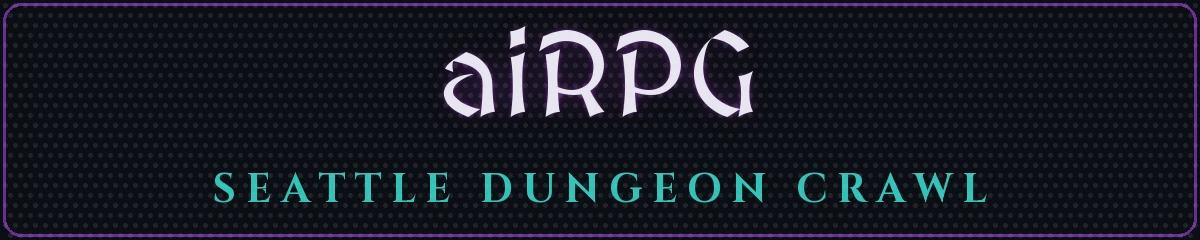
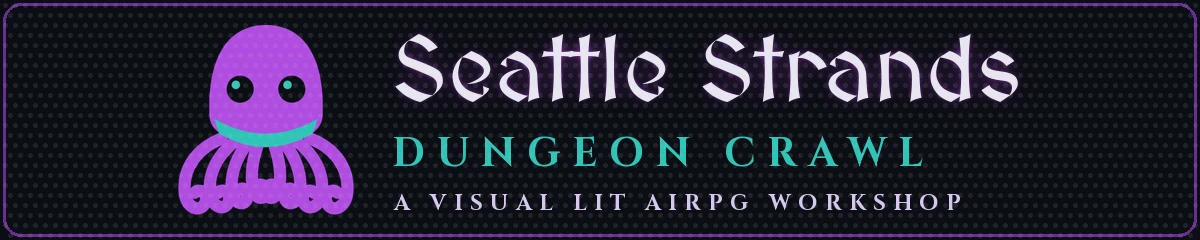
wordmark barnaby v2: mark svg, compose script, rendered webp

Changed region(s): [[0.1233, 0.0875, 0.8325, 0.9042], [0.3083, 0.1167, 0.8633, 0.4958]]

diff --git a/art/compose_readme_art.py b/art/compose_readme_art.py
@@ -18,7 +18,7 @@ bar) and images/hud-strip-1200x120-still.webp (the reduced-motion still), each w
 sidecar. Re-running is deterministic: same fonts, same bytes up to webp encoding.
 """
 from __future__ import annotations
-import hashlib, json, math, os, sys
+import hashlib, json, math, os, shutil, subprocess, sys
 from pathlib import Path
 
 sys.path.insert(0, str(Path(__file__).resolve().parent))
@@ -63,6 +63,77 @@ def ben_day(im: Image.Image) -> Image.Image:
         for xx in range(5 + (yy // 10 % 2) * 5, im.width, 10):
             d.ellipse((xx - 2, yy - 2, xx + 2, yy + 2), fill=LAVENDER + (26,))
     return Image.alpha_composite(im.convert("RGBA"), dot)
+
+
+MARK_SVG = ART / "images" / "src" / "wordmark-barnaby-mark.svg"
+
+
+def find_chromium() -> str:
+    for cand in ("chromium-browser", "chromium", "google-chrome"):
+        if shutil.which(cand):
+            return cand
+    sys.exit("no chromium binary on PATH; need one for --screenshot SVG rasterization")
+
+
+def rasterize_svg(svg: Path, out_png: Path, window: int = 600) -> Path:
+    """Rasterize an SVG via headless chromium --screenshot (Pillow cannot parse SVG).
+
+    Transparent page background so the mark composites cleanly onto the obsidian
+    panel. Returns the PNG path. Deterministic for a fixed SVG and window size.
+    """
+    out_png.parent.mkdir(parents=True, exist_ok=True)
+    # NOTE: snap-confined chromium cannot write outside $HOME (e.g. /tmp), so run
+    # with cwd at the target dir and a bare filename, then verify the bytes landed.
+    subprocess.run([find_chromium(), "--headless", "--disable-gpu", "--no-sandbox",
+                    "--default-background-color=00000000",
+                    f"--screenshot={out_png.name}", f"--window-size={window},{window}",
+                    f"file://{svg.resolve()}"],
+                   check=True, capture_output=True, cwd=out_png.parent)
+    if not out_png.exists():
+        sys.exit(f"chromium screenshot failed to write {out_png}")
+    return out_png
+
+
+def wordmark_v2(mark: Image.Image) -> Image.Image:
+    """New lockup: Barnaby SVG mark (rasterized) + three text lines on the house panel.
+
+    Mark left, text left-aligned to its right: "Seattle Strands" in MedievalSharp
+    ink with violet glow, "DUNGEON CRAWL" tracked-out in Cinzel Bold teal beneath,
+    then the subtitle line small in Cinzel lavender. Same obsidian panel, violet-dim
+    border, and ben-day dots as the original wordmark.
+    """
+    W, H = 1200, 240
+    im = Image.new("RGBA", (W, H), OBSIDIAN + (255,))
+    mark = mark.crop(mark.getbbox())
+    mark.thumbnail((190, 190), Image.LANCZOS)
+    # measure the text first so the whole lockup (mark + left-aligned lines) can
+    # be centered in the panel as one unit
+    probe = ImageDraw.Draw(im)
+    line1_f = font("MedievalSharp.ttf", 92)
+    line1 = "Seattle Strands"
+    line2_f = font("Cinzel-Bold.ttf", 40)
+    line2 = "DUNGEON CRAWL"
+    line3_f = font("Cinzel-Bold.ttf", 22)
+    line3 = "A VISUAL LIT AIRPG WORKSHOP"
+    text_w = max(int(probe.textlength(line1, font=line1_f)),
+                 spaced_width(probe, line2, line2_f, 12),
+                 spaced_width(probe, line3, line3_f, 8))
+    tx = (W - mark.width - 36 - text_w) // 2 + mark.width + 36
+    mark_x = tx - mark.width - 36
+    layer = Image.new("RGBA", (W, H), (0, 0, 0, 0))
+    layer.alpha_composite(mark.convert("RGBA"), (mark_x, (H - mark.height) // 2))
+    im = Image.alpha_composite(im, layer)
+    glow = Image.new("RGBA", (W, H), (0, 0, 0, 0))
+    gd = ImageDraw.Draw(glow)
+    gd.text((tx, 22), line1, font=line1_f, fill=VIOLET + (255,))
+    im = Image.alpha_composite(im, glow.filter(ImageFilter.GaussianBlur(12)))
+    im = Image.alpha_composite(im, glow.filter(ImageFilter.GaussianBlur(4)))
+    d = ImageDraw.Draw(im)
+    d.text((tx, 22), line1, font=line1_f, fill=INK + (255,))
+    spaced(d, (tx + 2, 126), line2, line2_f, TEAL + (255,), 12)
+    spaced(d, (tx + 4, 188), line3, line3_f, LAVENDER + (255,), 8)
+    d.rounded_rectangle((3, 3, W - 4, H - 4), radius=18, outline=VIOLET_DIM + (255,), width=3)
+    return ben_day(im).convert("RGB")
 
 
 def wordmark() -> Image.Image:
@@ -130,9 +201,19 @@ def save(im: Image.Image, out: Path, transforms: list[str], **save_kw) -> None:
 
 
 def main() -> int:
-    save(wordmark(), ART / "images" / "wordmark-1200x240.webp",
-         ["pillow type composition: MedievalSharp title with violet glow, Cinzel tracked subtitle in teal",
-          "ben-day 10px r2 alpha 10", "obsidian #0B0E14 panel so it reads on light and dark README themes"])
+    # stage the raster under art/images/src (NOT /tmp): snap-confined chromium
+    # cannot write outside $HOME. The staging png is removed before main() returns.
+    stage = ART / "images" / "src" / ".wordmark-mark.stage.png"
+    try:
+        mark = Image.open(rasterize_svg(MARK_SVG, stage)).convert("RGBA")
+        save(wordmark_v2(mark), ART / "images" / "wordmark-1200x240.webp",
+             ["Barnaby SVG mark (art/images/src/wordmark-barnaby-mark.svg) rasterized via headless "
+              "chromium --screenshot, composited left",
+              "pillow type composition: 'Seattle Strands' MedievalSharp 92 ink with violet glow, "
+              "'DUNGEON CRAWL' Cinzel Bold tracked teal, subtitle small Cinzel lavender",
+              "ben-day 10px r2 alpha 10", "obsidian #0B0E14 panel so it reads on light and dark README themes"])
+    finally:
+        stage.unlink(missing_ok=True)
     frames = [hud_frame(i / 24) for i in range(24)]
     first, rest = frames[6], frames[7:] + frames[:6]  # start mid-fill, not empty
     out = ART / "images" / "hud-strip-1200x120.webp"
